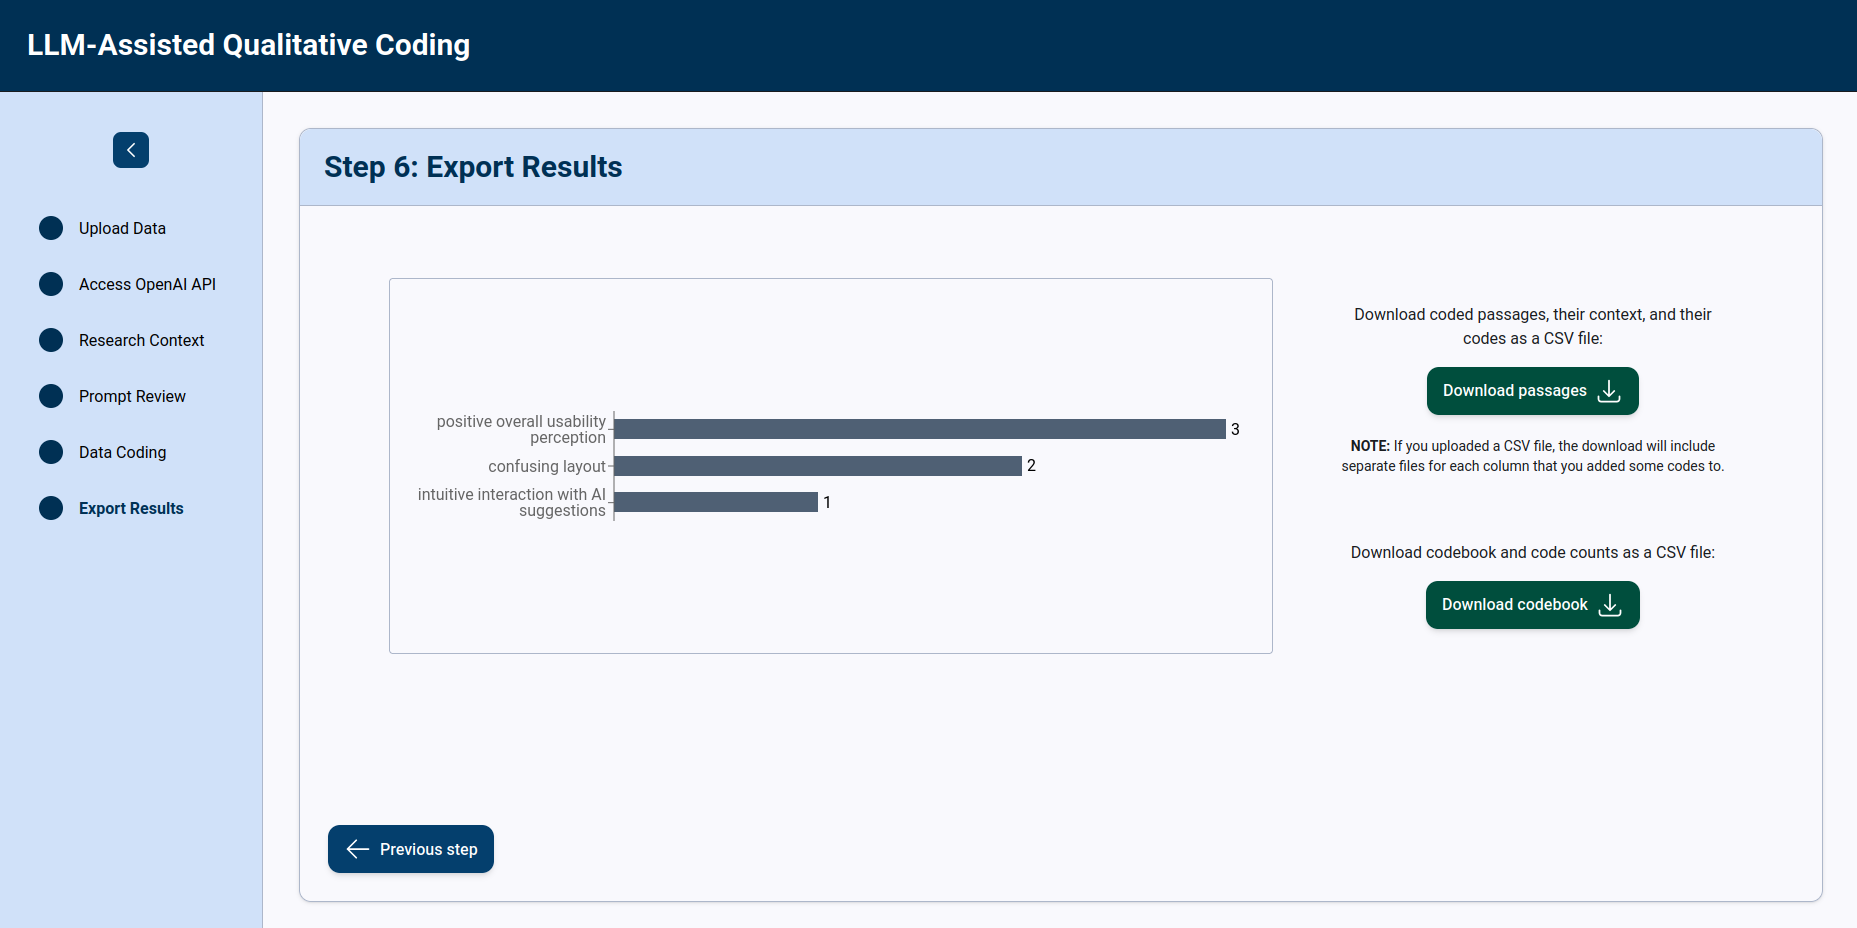
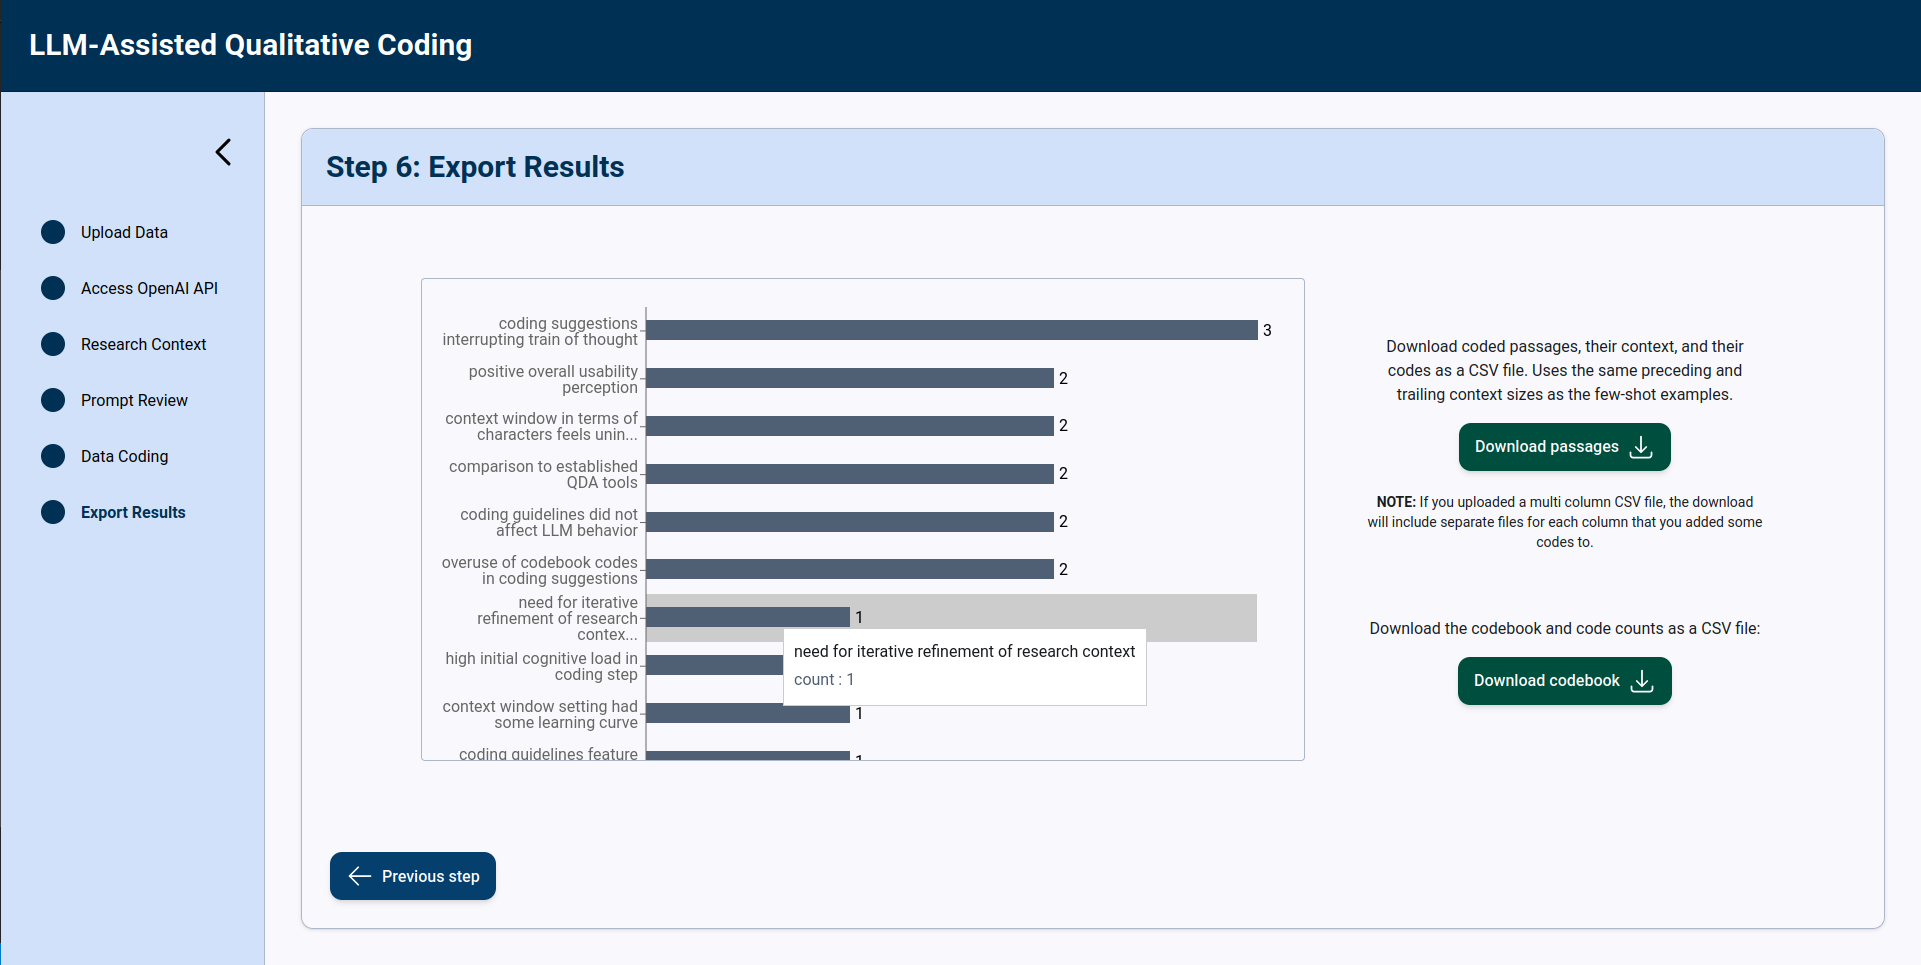
Improved autocomplete suggestions prompt, improved instructions, fixed a bug with the results plot, minor usability improvements in codeblob

diff --git a/frontend/src/components/cardContents/codingStep/hooks/apiCommunication/usePrompts.ts b/frontend/src/components/cardContents/codingStep/hooks/apiCommunication/usePrompts.ts
@@ -321,22 +321,29 @@ Few-shot examples of user coded passages (user highlighted passages marked in co
 You are a qualitative coding assistant for code autocompletion.
 
 ## TASK
-Given a target passage, its context, the existing codes for that passage, the current codebook, the research context, and the current user input, suggest the most likely full code the user intends to type next.
-The passage to code is marked with <<< >>>. Use the surrounding text for context, but generate the code only for the marked passage.
+Situation: the user is in the process of typing a code for the target passage and has paused. 
+Your role is to help finish typing that code, not to create a new or more elaborate one.
+
+Given the CURRENT USER INPUT and the user's established coding style, minimally extend the input into a complete code. 
+Use the target passage and existing codes to ensure compatibility and non-overlap.
+
 Guidelines:
-- Match the user's coding style as reflected in the codebook (wording, conciseness, level of detail, language, and conceptual focus).
-- The code must describe what the passage reveals in relation to the research questions.
-- Return the full code string, not just the continuation after the user input.
-- Do NOT suggest a code that:
-  - identically matches a codebook code OR an existing code of the passage,
-  - semantically matches a codebook code or an existing code of the passage.
-- If the user input already forms a complete and suitable code, return it unchanged.
-- If the user appears to be rephrasing a codebook code, you may suggest a stylistically consistent rephrasing.
+- Treat this as autocomplete, not analysis or full coding.
+- Assume the user has already chosen the intended conceptual direction; your task is only to minimally complete it.
+- Ensure the code accurately reflects the meaning of the target passage.
+- If the CURRENT USER INPUT contains only a vague fragment (e.g., “lack of”, “confusion about”), complete it into a meaningful code that fits the passage and complements existing codes.
+- Prefer the shortest valid completion that forms an accurate full code in the user's style.
+- Do NOT add new aspects, dimensions, causes, consequences, actors, or interpretations beyond what is already implied by the CURRENT USER INPUT.
+- Only use conjunctions to complete the current idea. Do not add extra aspects, examples, or explanations through conjunctions (e.g., “and”, “or”).
+- If the CURRENT USER INPUT already forms a complete and plausible code (even if vague), return it unchanged.
+- Match the wording, conciseness, abstraction level, and language of the existing codebook.
+- Do NOT introduce concepts that are clearly outside the scope of the study.
+- The suggested code should complement the existing codes for the passage, if any.
+- NEVER suggest a code that closely semantically overlaps with an existing code for the same passage.
 
 ## OUTPUT FORMAT (STRICT)
 - Return exactly one code string.
 - The code MUST start with the CURRENT USER INPUT and include it in full.
-- Only append text after the input unless the input already forms a complete and suitable code.
 - No explanations.
 - No wrapping quotes.
 - No markdown, JSON, or extra text.
@@ -344,10 +351,9 @@ Guidelines:
 - No punctuation unless it is part of the code itself.
 
 ## AUTHORITY AND PRECEDENCE RULES (STRICT)
-When determining behavior:
-1. RESPONSE FORMAT rules are absolute and MUST NOT be altered under any circumstances.
-2. USER PROVIDED CODE STYLE GUIDELINES have the highest authority for code content and MUST be followed if present, unless they directly conflict with RESPONSE FORMAT rules.
-3. If there is any conflict or ambiguity between guidelines and examples, ALWAYS follow the USER PROVIDED CODE STYLE GUIDELINES.
+1. RESPONSE FORMAT rules are absolute and must be followed under all circumstances.
+2. If there is any conflict between USER PROVIDED CODE STYLE GUIDELINES and patterns inferred from the codebook or examples, 
+follow the USER PROVIDED CODE STYLE GUIDELINES.
 All TASK requirements remain mandatory and must be fulfilled unless they directly conflict with RESPONSE FORMAT rules.
 
 ## USER PROVIDED CODE STYLE GUIDELINES:
@@ -361,7 +367,11 @@ ${dataIsCSV ? `- NOTE: Data is from a CSV file where rows end with: "\\u001E".` 
 ## CURRENT CODEBOOK
 [${constructCodebookString()}]
 
-## TARGET PASSAGE (<<< >>> marks the coded segment)
+## USER'S CODING STYLE
+Few-shot examples of user coded passages (user highlighted passages marked in context with <<< >>>):
+[${constructFewShotExamplesString(dataIsCSV)}]
+
+## TARGET PASSAGE (<<< >>> marks the target segment)
 "${precedingText + "<<<" + (passage?.text ?? "TARGET PASSAGE HERE") + ">>>" + trailingText}"
 
 ## TARGET PASSAGE EXISTING CODES

diff --git a/frontend/src/components/cardContents/ResultsCardContent.tsx b/frontend/src/components/cardContents/ResultsCardContent.tsx
@@ -7,7 +7,7 @@ import { getPassageWithSurroundingContext } from "./codingStep/utils/passageUtil
 
 const ResultsCardContent = () => {
   const context = useContext(WorkflowContext)!;
-  const { codes, passages, passagesPerColumn, codebook, uploadedFile } = context;
+  const { codes, passages, passagesPerColumn, codebook, uploadedFile, examplesPrecedingContextSize, examplesTrailingContextSize } = context;
   const [data, setData] = useState<{ code: string; count: number }[]>([]);
 
   useEffect(() => {
@@ -28,7 +28,7 @@ const ResultsCardContent = () => {
    * @returns The truncated label if it exceeds maxLength, otherwise the original label
    */
   const truncateLabel = (label: string) => {
-    const maxLength = 45;
+    const maxLength = 48;
     return label.length > maxLength ? label.substring(0, maxLength) + "..." : label;
   };
 
@@ -62,8 +62,8 @@ const ResultsCardContent = () => {
           getPassageWithSurroundingContext(
             p,
             passages,
-            30,
-            15,
+            examplesPrecedingContextSize ?? 30,
+            examplesTrailingContextSize ?? 15,
             uploadedFile?.type === "text/csv"
           );
 
@@ -124,7 +124,7 @@ const ResultsCardContent = () => {
   return (
     <div className="flex gap-15 items-center mt-6">
       {/* Chart container with vertical scroll if needed */}
-      <div className="flex items-center justify-center overflow-y-auto overflow-x-hidden max-h-[50vh] border border-outline rounded-sm px-4 py-2 min-h-[40vh] min-w-[40vw]">
+      <div className="flex items-start justify-center overflow-y-auto overflow-x-hidden max-h-[50vh] border border-outline rounded-sm px-4 py-2 min-h-[40vh] min-w-[40vw]">
         {codebook.size === 0 ? (
           <p>No codes have been added yet.</p>
         ) : (
@@ -147,7 +147,7 @@ const ResultsCardContent = () => {
             {/* X-axis for counts */}
             <XAxis type="number" hide={true} />
 
-            <Tooltip />
+            <Tooltip/>
 
             {/* Bars */}
             <Bar dataKey="count" fill="#4F6074" barSize={20}>
@@ -163,7 +163,7 @@ const ResultsCardContent = () => {
       <div className="flex flex-col gap-16 items-center">
         <div className="flex flex-col gap-4 items-center max-w-[400px]">
           <p className="text-center">
-            Download coded passages, their context, and their codes as a CSV file:
+            Download coded passages, their context, and their codes as a CSV file. Uses the same preceding and trailing context sizes as the few-shot examples.
           </p>
           <Button
             onClick={handleFileDownload}
@@ -173,7 +173,7 @@ const ResultsCardContent = () => {
             title={"Download coded passages as a CSV file"}
           />
           <p className="text-sm text-center pt-1.5">
-            <b>NOTE:</b> If you uploaded a CSV file, the download will include separate
+            <b>NOTE:</b> If you uploaded a multi column CSV file, the download will include separate
             files for each column that you added some codes to.
           </p>
         </div>

diff --git a/frontend/src/components/cardContents/codingStep/CodingCardContent.tsx b/frontend/src/components/cardContents/codingStep/CodingCardContent.tsx
@@ -68,7 +68,6 @@ const CodingCardContent = () => {
   const [displayedColumn, setDisplayedColumn] = useState<string>(columnNames[0] || "");
 
   // Refs
-  const clickedExampleBlobRef = useRef<boolean>(false); // Track if the most recent click was on a few-shot example blob
   const isProcessingPendingRef = useRef<boolean>(false); // Used for preventing overlapping processing of the same queue head
   // Keep a stable ref to the latest fetch function to avoid effect re-trigger on identity changes
   const inclusiveFetchRef = useRef(inclusivelyFetchHighlightSuggestionAfter);
@@ -359,10 +358,6 @@ const CodingCardContent = () => {
           e.stopPropagation(); // Prevent triggering parent onMouseDown
           // If there is an ongoing highlight suggestion fetch, do nothing
           if (isProcessingPendingRef.current) return;
-          if (clickedExampleBlobRef.current) {
-            clickedExampleBlobRef.current = false;
-            return;
-          }
           if (!p.isHighlighted) {
             setActiveCodeId(null);
             setShowHighlightSuggestionFor(p.id);
@@ -417,7 +412,6 @@ const CodingCardContent = () => {
                   setActiveCodeId={setActiveCodeId}
                   setPendingHighlightFetches={setPendingHighlightFetches}
                   preventCodeBlobDeactivationRef={preventCodeBlobDeactivationRef}
-                  clickedExampleBlobRef={clickedExampleBlobRef}
                   isLastCodeOfPassage={index === p.codeIds.length - 1}
                   codeManager={codeManager}
                   suggestionsManager={suggestionsManager}

diff --git a/frontend/src/components/cardContents/codingStep/CodeBlob.tsx b/frontend/src/components/cardContents/codingStep/CodeBlob.tsx
@@ -17,7 +17,6 @@ interface CodeBlobProps {
   setActiveCodeId: React.Dispatch<React.SetStateAction<CodeId | null>>;
   setPendingHighlightFetches: React.Dispatch<React.SetStateAction<Array<PassageId>>>;
   preventCodeBlobDeactivationRef: React.RefObject<boolean>;
-  clickedExampleBlobRef: React.RefObject<boolean>;
   isLastCodeOfPassage: boolean;
   codeManager: {
     updateCode: (cid: CodeId, newCodeValue: string) => PassageId | null;
@@ -43,7 +42,6 @@ const CodeBlob = ({
   setActiveCodeId,
   setPendingHighlightFetches,
   preventCodeBlobDeactivationRef,
-  clickedExampleBlobRef,
   isLastCodeOfPassage,
   codeManager,
   suggestionsManager,
@@ -373,10 +371,11 @@ const CodeBlob = ({
   /** Updates the code into the global state. */
   const handleCodeEnter = async () => {
     if (activeCodeId === null) return; // For safety: should not happen
-    if (preventCodeBlobDeactivationRef.current || clickedExampleBlobRef.current) {
-      // If code enter was caused by user clicking the suggestions toggle or a few-shot example checkbox,
-      // refocus the code blob instead of updating the code
+    if (preventCodeBlobDeactivationRef.current) {
+      // If code enter was caused by user clicking something that should not deactivate the code blob,
+      // refocus the code blob instead of updating the code, and move cursor to end.
       inputRef.current?.focus();
+      moveInputCursorToEnd();
       return;
     }
     preventCodeBlobDeactivationRef.current = false;

diff --git a/frontend/src/components/cardContents/codingStep/InstructionsContent.tsx b/frontend/src/components/cardContents/codingStep/InstructionsContent.tsx
@@ -74,6 +74,9 @@ const InstructionsContent = ({
             after the declined one.
           </li>
           <li>
+            Click on an uncoded section to search for a highlight suggestion <b>starting from the beginning of that section</b>.
+          </li>
+          <li>
             You can use the arrow keys to scroll the data vertically.
           </li>
         </ul>
@@ -92,7 +95,7 @@ const InstructionsContent = ({
               <p className="font-semibold">Coding settings</p>
               <p>You can:</p>
               <ul className="list-disc list-inside flex flex-col gap-1 flex-1 min-w-0">
-                <li>Toggle AI suggestions on/off with the switch.</li>
+                <li>Toggle AI suggestions on/off.</li>
                 <li>
                   Define how much context is provided to the AI when fetching coding
                   suggestions.
@@ -126,8 +129,7 @@ const InstructionsContent = ({
                   code.
                 </li>
                 <li>
-                  All codebook codes, used and unused, are included in the coding
-                  suggestion prompts.
+                  All codebook codes, used and unused, are provided to the AI.
                 </li>
                 <li>
                   You can download the codebook as a single column CSV file at any time
